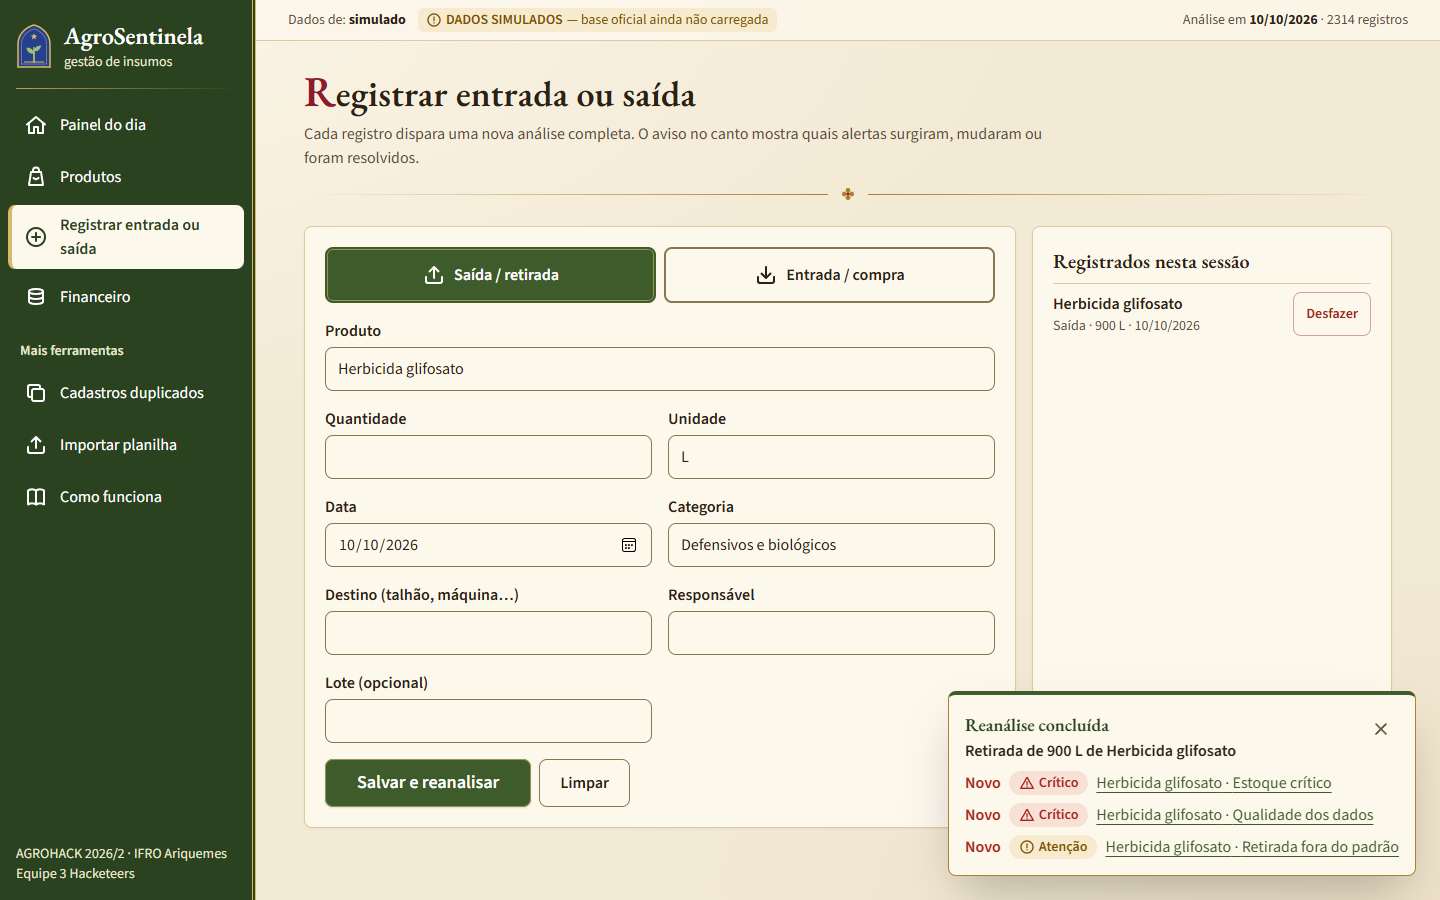
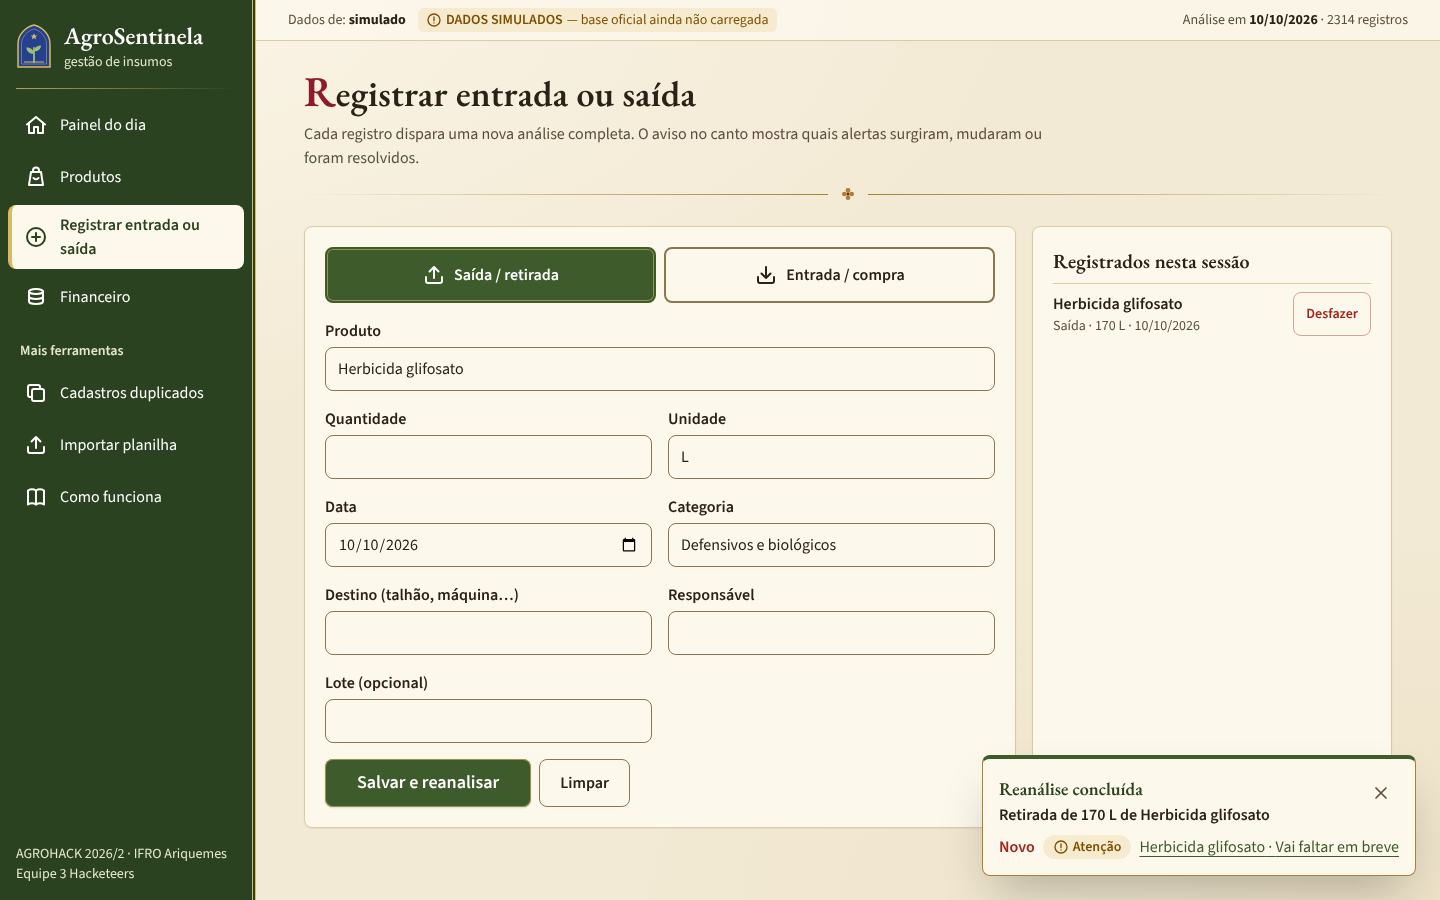
docs(demo): retirada de 170 L de glifosato e teste que trava o aviso
A demonstração dizia "registre uma retirada grande de glifosato" e prometia o
aviso "Novo · Atenção · Vai faltar em breve", mas com 900 L o aviso era outro
(Estoque crítico, Qualidade dos dados e Retirada fora do padrão).

Varredura com o motor real (data/simulado.csv, saída de Herbicida glifosato em L
na data de referência, mesmo diff do loop de reanálise):
- 50 a 115 L: nenhum aviso;
- 120 a 225 L: só "Novo · Atenção · Vai faltar em breve";
- 230 a 355 L: o mesmo alerta, mas Crítico;
- 360 a 370 L: Crítico + Retirada fora do padrão;
- 375 a 450 L: Estoque crítico + Retirada fora do padrão;
- 455 L ou mais: também Qualidade dos dados.
Escolhida a quantidade de 170 L, longe dos dois limites.

- README (seção 6 e legenda das telas), roteiro do vídeo (cena 6), docs/pitch.md
  e o slide/notas do momento 4 passam a citar 170 L e o aviso real.
- comparar() sai de store.tsx para src/lib/mudanca.ts, sem mudar a lógica, para o
  teste usar o mesmo diff do app.
- tests/demo.test.ts trava o aviso de 170 L e a folga (130 L e 210 L).
- capturar-telas usa a mesma quantidade e aceita Chrome/Chromium no Linux;
  docs/img/registrar.png recapturada com 170 L.

diff --git a/src/app/pitch/slides.tsx b/src/app/pitch/slides.tsx
@@ -294,9 +294,9 @@ const Momento3 = () => (
 );
 
 const Momento4 = () => (
-  <Momento n={4} numero={<><Contador ate={300} dur={1.2} /> L</>}
-    legenda={<>de glifosato retirados de uma vez. Salvou, o sistema refez tudo e <b style={{ color: C.amber }}>avisou na hora: Novo · Crítico.</b></>}
-    etapas={[{ src: "/pitch/registrar-novo.png", alt: "Aviso de novo alerta crítico após registrar retirada", foco: { x: 72.9, y: 88.2, w: 26, h: 10.4 }, zoom: 1.3 }]} />
+  <Momento n={4} numero={<><Contador ate={170} dur={1.2} /> L</>}
+    legenda={<>de glifosato retirados de uma vez. Salvou, o sistema refez tudo e <b style={{ color: C.amber }}>avisou na hora: Novo · Atenção · Vai faltar em breve.</b></>}
+    etapas={[{ src: "/pitch/registrar-novo.png", alt: "Aviso de novo alerta de atenção após registrar retirada", foco: { x: 72.9, y: 88.2, w: 26, h: 10.4 }, zoom: 1.3 }]} />
 );
 
 function Perguntas() {
@@ -504,8 +504,8 @@ export const SLIDES: { id: string; titulo: string; tempo: string; notas: string;
     notas: "“O consumo subiu 87% em 4 meses. Quem olhasse a média do ano acharia que está tudo bem.” Apontar as barras subindo no fim do gráfico." },
   { id: "m3", titulo: "Momento 3 · 1 clique", tempo: "2:15–2:35", Componente: Momento3,
     notas: "“Era o mesmo adubo com dois nomes: KCl e Cloreto de potássio. Um clique, a análise é refeita e o alarme falso de ‘vai faltar’ some sozinho.” A tela troca sozinha para o aviso ‘Resolvido’." },
-  { id: "m4", titulo: "Momento 4 · 300 L", tempo: "2:35–2:55", Componente: Momento4,
-    notas: "“Alguém tirou 300 litros de glifosato de uma vez. Na hora o sistema refaz tudo e avisa: Novo, Crítico. É o tipo de coisa que hoje só se descobre no fim do mês.”" },
+  { id: "m4", titulo: "Momento 4 · 170 L", tempo: "2:35–2:55", Componente: Momento4,
+    notas: "“Alguém tirou 170 litros de glifosato de uma vez. Na hora o sistema refaz tudo e avisa: Novo, Atenção, vai faltar em breve. É o tipo de coisa que hoje só se descobre no fim do mês.”" },
   { id: "perguntas", titulo: "As 7 perguntas", tempo: "2:55–3:10", Componente: Perguntas,
     notas: "Rápido: “As 7 perguntas do desafio têm resposta no sistema — e o mapa está na tela Como funciona.” Não ler a lista inteira." },
   { id: "confianca", titulo: "Por que confiar", tempo: "3:10–3:40", Componente: Confianca,

diff --git a/tests/demo.test.ts b/tests/demo.test.ts
@@ -1,0 +1,44 @@
+// Trava a demonstração da reanálise descrita no README (seção 6), no roteiro do vídeo e no pitch:
+// uma retirada de 170 L de glifosato na data de referência da base simulada deve gerar
+// exatamente um aviso "Novo · Atenção · Herbicida glifosato · Vai faltar em breve".
+// Varredura de 23/10/2026: o aviso sai igual de 120 a 225 L; 170 L fica longe dos dois limites.
+
+import { readFileSync } from "node:fs";
+import { describe, expect, it } from "vitest";
+import { analisar } from "../src/lib/engine";
+import type { Movimentacao } from "../src/lib/engine/types";
+import { lerCsv } from "../src/lib/import";
+import { comparar } from "../src/lib/mudanca";
+
+const RETIRADA_DEMO_L = 170;
+
+describe("demonstração da reanálise (base simulada)", () => {
+  const { movimentacoes } = lerCsv(readFileSync("data/simulado.csv", "utf8"));
+  const antes = analisar(movimentacoes);
+  const glifosato = antes.produtos.find((p) => p.nome === "Herbicida glifosato")!;
+
+  // Mesmos campos que o formulário de Registrar preenche ao escolher o produto.
+  const retirada = (quantidade: number): Movimentacao => ({
+    id: "udemo", produto: glifosato.nome, categoria: glifosato.categoria, unidade: glifosato.unidade, quantidade,
+    estoqueMinimo: glifosato.estoqueMinimo, tipo: "saida", data: antes.dataReferencia,
+    preco: null, lote: null, validade: null, fornecedor: null, destino: null, responsavel: null,
+  });
+  const aviso = (quantidade: number) => {
+    const m = comparar(antes, analisar([...movimentacoes, retirada(quantidade)]), "demo");
+    return {
+      novos: m.novos.map((a) => `${a.nivel} · ${a.produto} · ${a.detector}`),
+      resolvidos: m.resolvidos.length,
+      mudaramNivel: m.mudaramNivel.length,
+    };
+  };
+
+  it(`${RETIRADA_DEMO_L} L geram só "Novo · Atenção · Vai faltar em breve"`, () => {
+    expect(glifosato.unidade).toBe("L");
+    expect(aviso(RETIRADA_DEMO_L)).toEqual({ novos: ["atencao · Herbicida glifosato · ruptura_prevista"], resolvidos: 0, mudaramNivel: 0 });
+  });
+
+  it("a quantidade da demo tem folga dos dois lados (130 L e 210 L dão o mesmo aviso)", () => {
+    expect(aviso(130)).toEqual(aviso(RETIRADA_DEMO_L));
+    expect(aviso(210)).toEqual(aviso(RETIRADA_DEMO_L));
+  });
+});

diff --git a/scripts/capturar-telas.ts b/scripts/capturar-telas.ts
@@ -1,5 +1,5 @@
 // npm run capturar-telas — gera as imagens da seção "Telas" do README em docs/img/.
-// Requer o app rodando (npm run build && npm start) e o Microsoft Edge instalado.
+// Requer o app rodando (npm run build && npm start) e o Microsoft Edge (ou Chrome/Chromium, indicado em EDGE_PATH).
 // Usa o protocolo de depuração do navegador (CDP) direto, sem dependências extras.
 
 import { spawn } from "node:child_process";
@@ -11,6 +11,9 @@ const BASE = process.env.APP_URL ?? "http://localhost:3000";
 const EDGE = process.env.EDGE_PATH ?? "C:/Program Files (x86)/Microsoft/Edge/Application/msedge.exe";
 const PORTA = 9333;
 const SAIDA = join(process.cwd(), "docs", "img");
+
+/** Retirada da demonstração: ver README (seção 6) e tests/demo.test.ts. */
+const RETIRADA_DEMO_L = "170";
 
 const DESKTOP = { width: 1440, height: 900, deviceScaleFactor: 1, mobile: false };
 const CELULAR = { width: 390, height: 844, deviceScaleFactor: 2, mobile: true };
@@ -34,7 +37,8 @@ async function conectar() {
 async function main() {
   mkdirSync(SAIDA, { recursive: true });
   const perfil = mkdtempSync(join(tmpdir(), "agrosentinela-telas-"));
-  const edge = spawn(EDGE, ["--headless=new", `--remote-debugging-port=${PORTA}`, `--user-data-dir=${perfil}`, "--hide-scrollbars", "--no-first-run", "about:blank"], { stdio: "ignore" });
+  const semSandbox = process.platform === "linux" && process.getuid?.() === 0 ? ["--no-sandbox"] : [];
+  const edge = spawn(EDGE, ["--headless=new", `--remote-debugging-port=${PORTA}`, `--user-data-dir=${perfil}`, "--hide-scrollbars", "--no-first-run", ...semSandbox, "about:blank"], { stdio: "ignore" });
 
   const ws = new WebSocket(await conectar());
   await new Promise((r) => ws.addEventListener("open", r, { once: true }));
@@ -89,7 +93,7 @@ async function main() {
       };
       const campos = document.querySelectorAll("form input");
       definir(campos[0], "Herbicida glifosato");
-      definir(campos[1], "900");
+      definir(campos[1], "${RETIRADA_DEMO_L}");
     })()`);
     await espera(300);
     await avaliar(`document.querySelector("form").requestSubmit()`);

diff --git a/src/lib/store.tsx b/src/lib/store.tsx
@@ -5,16 +5,12 @@
 
 import { createContext, useCallback, useContext, useEffect, useMemo, useRef, useState } from "react";
 import { analisar } from "./engine";
-import type { Alerta, Analise, Movimentacao, Nivel } from "./engine/types";
+import type { Analise, Movimentacao } from "./engine/types";
 import { lerCsv } from "./import";
+import { comparar, type Mudanca } from "./mudanca";
 import * as db from "./persistencia";
 
-export interface Mudanca {
-  descricao: string;
-  novos: Alerta[];
-  resolvidos: Alerta[];
-  mudaramNivel: { antes: Nivel; depois: Alerta }[];
-}
+export type { Mudanca };
 
 interface Ctx {
   pronto: boolean;
@@ -36,20 +32,6 @@ interface Ctx {
 }
 
 const Contexto = createContext<Ctx | null>(null);
-const chaveAlerta = (a: Alerta) => `${a.detector}|${a.produtoKey}|${a.evidencias.lote ?? a.evidencias.data ?? ""}`;
-
-function comparar(antes: Analise, depois: Analise, descricao: string): Mudanca {
-  const mapaAntes = new Map(antes.alertas.map((a) => [chaveAlerta(a), a]));
-  const mapaDepois = new Map(depois.alertas.map((a) => [chaveAlerta(a), a]));
-  return {
-    descricao,
-    novos: depois.alertas.filter((a) => !mapaAntes.has(chaveAlerta(a))),
-    resolvidos: antes.alertas.filter((a) => !mapaDepois.has(chaveAlerta(a))),
-    mudaramNivel: depois.alertas
-      .filter((a) => mapaAntes.has(chaveAlerta(a)) && mapaAntes.get(chaveAlerta(a))!.nivel !== a.nivel)
-      .map((a) => ({ antes: mapaAntes.get(chaveAlerta(a))!.nivel, depois: a })),
-  };
-}
 
 export function ProvedorDados({ children }: { children: React.ReactNode }) {
   const [pronto, setPronto] = useState(false);

diff --git a/src/lib/mudanca.ts b/src/lib/mudanca.ts
@@ -1,0 +1,26 @@
+// Diff de alertas entre duas análises: o que surgiu, o que foi resolvido e o que mudou de nível.
+// Usado pelo loop de reanálise (store.tsx) e pelo teste da demonstração.
+
+import type { Alerta, Analise, Nivel } from "./engine/types";
+
+export interface Mudanca {
+  descricao: string;
+  novos: Alerta[];
+  resolvidos: Alerta[];
+  mudaramNivel: { antes: Nivel; depois: Alerta }[];
+}
+
+const chaveAlerta = (a: Alerta) => `${a.detector}|${a.produtoKey}|${a.evidencias.lote ?? a.evidencias.data ?? ""}`;
+
+export function comparar(antes: Analise, depois: Analise, descricao: string): Mudanca {
+  const mapaAntes = new Map(antes.alertas.map((a) => [chaveAlerta(a), a]));
+  const mapaDepois = new Map(depois.alertas.map((a) => [chaveAlerta(a), a]));
+  return {
+    descricao,
+    novos: depois.alertas.filter((a) => !mapaAntes.has(chaveAlerta(a))),
+    resolvidos: antes.alertas.filter((a) => !mapaDepois.has(chaveAlerta(a))),
+    mudaramNivel: depois.alertas
+      .filter((a) => mapaAntes.has(chaveAlerta(a)) && mapaAntes.get(chaveAlerta(a))!.nivel !== a.nivel)
+      .map((a) => ({ antes: mapaAntes.get(chaveAlerta(a))!.nivel, depois: a })),
+  };
+}

diff --git a/docs/pitch.md b/docs/pitch.md
@@ -59,7 +59,7 @@ Mostrem só passos que já foram ensaiados e que **não podem dar errado**. Cada
 | 1 | Painel → card do **diesel** | Abrir *Como calculamos?* | "Mantendo o consumo dos últimos 30 dias, o diesel dura **cerca de 9 dias**. Com o prazo de compra de 15, **ele já está atrasado**. E o sistema mostra a conta e a confiança." |
 | 2 | Ficha do diesel | Mostrar o gráfico com a projeção | "O consumo subiu **87% em 4 meses**. Quem olhasse a média do ano acharia que está tudo bem." |
 | 3 | Cadastros | Unificar **"KCl"** com **"Cloreto de potássio"** | "Era o mesmo adubo com dois nomes. Um clique, e o alarme falso de 'vai faltar' **some sozinho**." |
-| 4 | Registrar | Retirada de **300 L de glifosato** no Talhão 2 | "Alguém tirou 300 litros de uma vez. Na hora o sistema refaz tudo e avisa: **retirada fora do padrão**. É o tipo de coisa que hoje só se descobre no fim do mês." |
+| 4 | Registrar | Retirada de **170 L de glifosato** no Talhão 2, na data sugerida | "Alguém tirou 170 litros de uma vez. Na hora o sistema refaz tudo e avisa: **vai faltar em breve**. É o tipo de coisa que hoje só se descobre no fim do mês." |
 | (opcional, 15 s) | Financeiro | Curva ABC | "E **11 itens concentram 80%** do dinheiro parado no galpão. É ali que o Seu João tem de olhar primeiro." |
 
 **Regras de segurança da demo:**
@@ -103,7 +103,7 @@ Mostrem só passos que já foram ensaiados e que **não podem dar errado**. Cada
 ## Técnicas de venda para o palco
 
 - **Comecem pela história, não pela tecnologia.** Ninguém se importa com DAG antes de se importar com o Seu João.
-- **Um número por momento.** "9 dias", "87%", "300 litros", "17 de 17". Números concretos grudam; listas não.
+- **Um número por momento.** "9 dias", "87%", "170 litros", "17 de 17". Números concretos grudam; listas não.
 - **Mostrem, não descrevam.** Toda frase da demo acontece na tela ao mesmo tempo.
 - **Admitam o limite antes da banca perguntar.** Isso tira a arma da mão dela e passa confiança.
 - **Fraqueza vira roadmap.** "Ainda não faz X" vira "o próximo passo é X, e já sabemos como".

diff --git a/README.md b/README.md
@@ -59,7 +59,7 @@
 | ![Painel do dia no celular](docs/img/celular-painel.png) | ![Produtos no celular, em cards](docs/img/celular-produtos.png) |
 | **Celular** — menu fixo no rodapé, botões grandes e textos legíveis. | **Celular** — a tabela de produtos vira uma lista de cards. |
 
-Capturas de 23/10/2026 com a base **SIMULADA**, em 1440×900 (computador) e 390×844 (celular). A tela de registro mostra uma retirada de 900 L de glifosato feita só para a ilustração. Para gerar de novo: `npm run build && npm start` e, em outro terminal, `npm run capturar-telas` (requer o Microsoft Edge).
+Capturas de 23/10/2026 com a base **SIMULADA**, em 1440×900 (computador) e 390×844 (celular). A tela de registro mostra a retirada de 170 L de glifosato da demonstração (seção 6). Para gerar de novo: `npm run build && npm start` e, em outro terminal, `npm run capturar-telas` (requer o Microsoft Edge).
 
 ### Os 10 detectores
 
@@ -118,7 +118,7 @@ npm run build && npm start
 ## 6. Demonstração
 
 - **Vídeo:** _(link)_. O roteiro está em [`docs/roteiro-video.md`](docs/roteiro-video.md).
-- **Atualização e reanálise:** registre, por exemplo, uma retirada grande de glifosato em *Registrar entrada ou saída*. Ao salvar, o aviso no canto mostra "Novo · Atenção · Herbicida glifosato · Vai faltar em breve".
+- **Atualização e reanálise:** em *Registrar entrada ou saída*, registre uma retirada de **170 L** de "Herbicida glifosato" na data sugerida (a data de referência da base simulada). Ao salvar, o aviso no canto mostra só "Novo · Atenção · Herbicida glifosato · Vai faltar em breve". O teste `tests/demo.test.ts` garante esse resultado. Com a base simulada, o aviso é o mesmo para retiradas de 120 a 225 L; a partir de 230 L o nível passa a Crítico, e retiradas muito grandes também geram "Estoque crítico" e "Retirada fora do padrão".
 - **Unificação:** em *Cadastros duplicados*, unifique "KCl" com "Cloreto de potássio (KCl)". O alerta falso de ruptura do "KCl" é resolvido na hora.
 
 ## 7. Validação

diff --git a/docs/roteiro-video.md b/docs/roteiro-video.md
@@ -10,7 +10,7 @@ Base: a **oficial**, se já divulgada. Se não, a simulada, deixando claro o avi
 | 3 | 0:40–1:05 | Ficha do diesel (gráficos) | "O consumo subiu 87% em 4 meses. A projeção mostra quando o saldo cruza o mínimo." |
 | 4 | 1:05–1:25 | Inoculante / Trichoderma | "Vencimento por lote: o sistema calcula quanto será usado até a validade e quanto deve sobrar, em reais." |
 | 5 | 1:25–1:45 | Cadastros duplicados → Unificar | "KCl e cloreto de potássio eram o mesmo produto. Ao unificar, a análise é refeita e o alarme falso some." |
-| 6 | 1:45–2:10 | Registrar entrada ou saída | "Registramos uma retirada grande, e na hora aparece o novo alerta. Isso é a atualização e a reanálise pedidas no desafio." |
+| 6 | 1:45–2:10 | Registrar entrada ou saída: retirada de **170 L** de Herbicida glifosato, na data sugerida | "Registramos uma retirada de 170 litros de glifosato, e na hora aparece o novo alerta: Atenção, vai faltar em breve. Isso é a atualização e a reanálise pedidas no desafio." |
 | 7 | 2:10–2:30 | Financeiro | "A curva ABC mostra onde está o dinheiro e o que está parado ou comprado em excesso." |
 | 8 | 2:30–2:50 | Como funciona (DAG + critérios) | "Todos os critérios e limites estão explicados. Validamos com um gabarito de anomalias: 100% encontradas." |
 | 9 | 2:50–3:00 | Tela final com o link do GitHub | "Código, documentação e instruções de teste estão no repositório. Obrigado!" |
